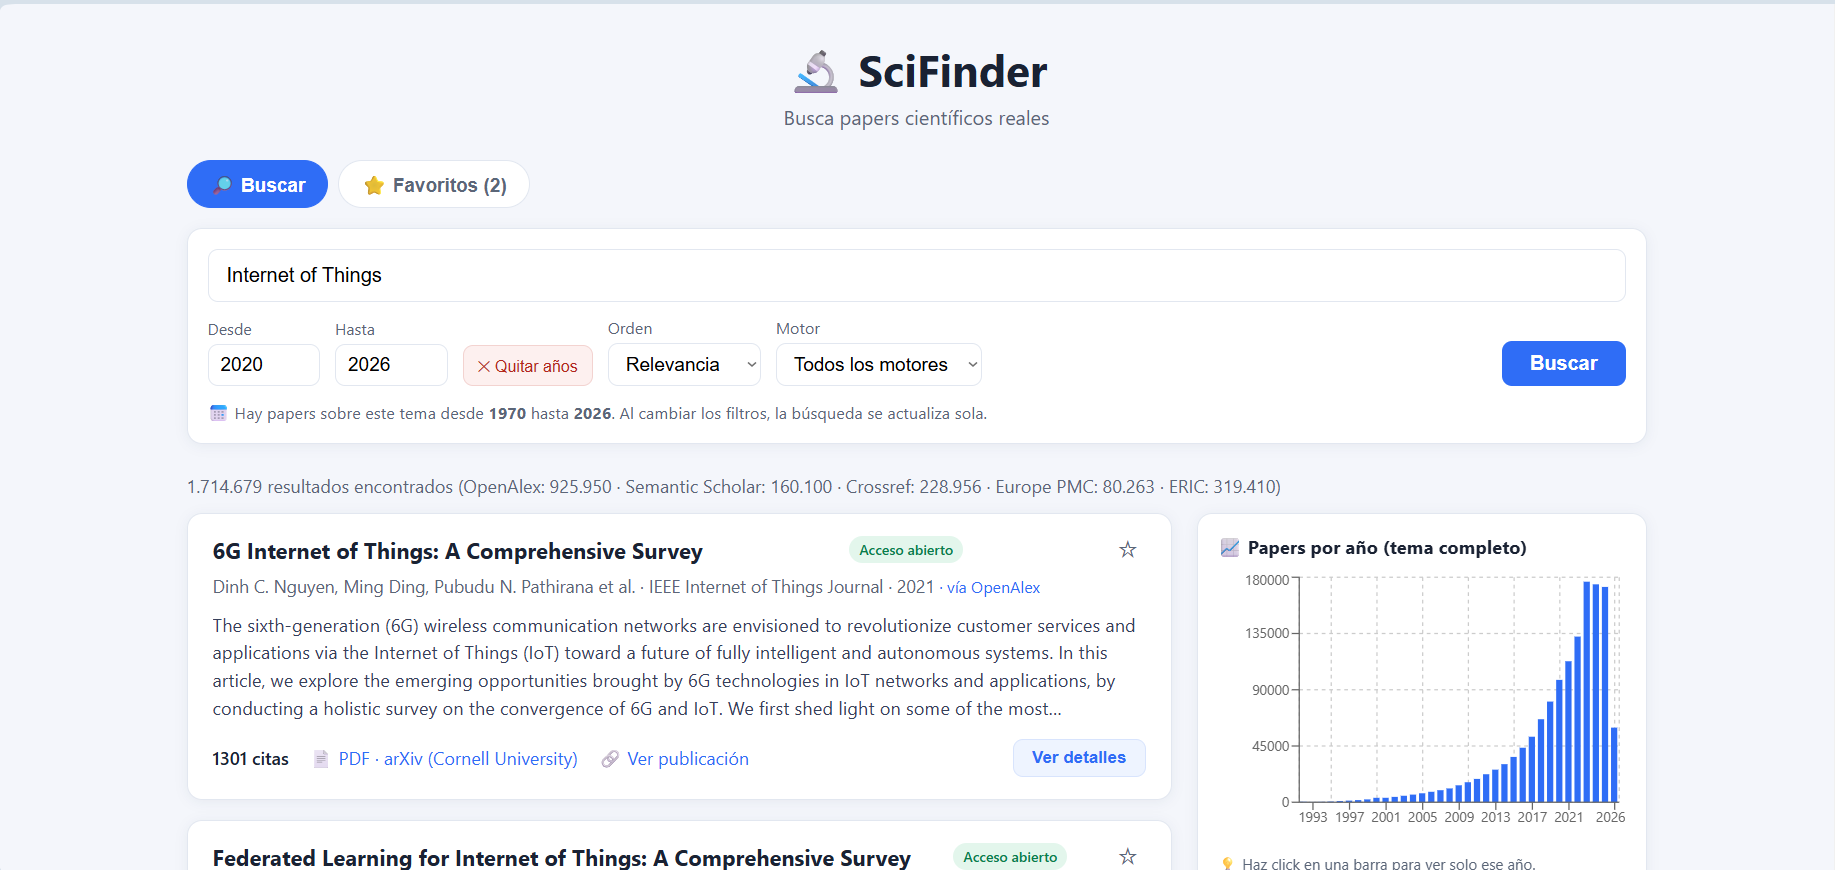
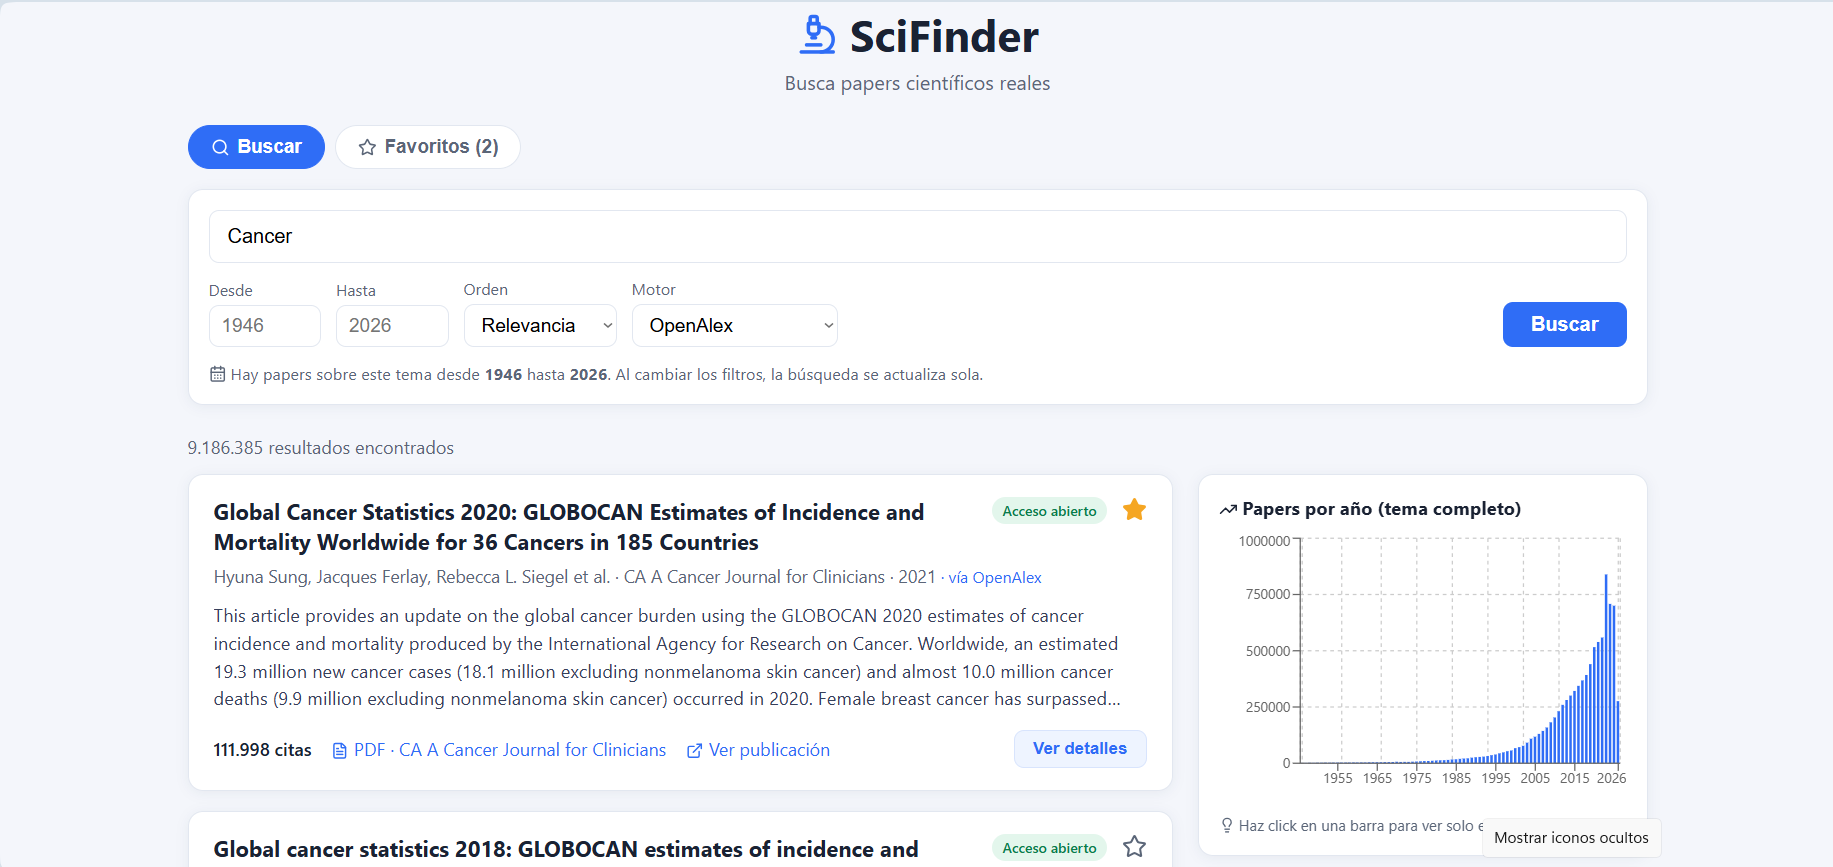
README: capturas actualizadas con el look nuevo de iconos y caption de busqueda ajustado

diff --git a/README.md b/README.md
@@ -7,8 +7,8 @@
 
 > ⏳ *Nota: el backend corre en un plan gratuito y "duerme" tras 15 min de inactividad — la primera búsqueda puede tardar ~1 minuto en despertar el servidor. Las siguientes son rápidas.*
 
-![Búsqueda en SciFinder: resultados multi-motor con gráficas interactivas](docs/busqueda.png)
-*Búsqueda combinada en 5 motores con desglose de resultados por fuente, filtros de año activos y gráfica de producción por año (clickeable para filtrar).*
+![Búsqueda en SciFinder: resultados reales con gráficas interactivas](docs/busqueda.png)
+*Búsqueda con resultados reales: rango de años detectado del tema, enlaces a PDF, favoritos y gráfica de producción por año (clickeable para filtrar).*
 
 ---
 
